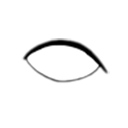
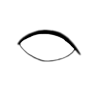
Images are loading, jsut need to make textures.

diff --git a/website/scripts/objParser.js b/website/scripts/objParser.js
@@ -1,3 +1,12 @@
+function parseObjMtl(name, done) {
+
+  var obj = parseObj(name, function () {
+    parseMtl(name, done, obj);
+  });
+
+  return obj;
+}
+
 function parseObj(name, done) {
   var objRequest = new XMLHttpRequest();
 
@@ -12,12 +21,12 @@ function parseObj(name, done) {
       var faces = [];
       var normals = [];
       var texCoords = [];
-      var currentGroup = '';
+      var currentGroup = {};
 
       for (var i = 0; i < lines.length; i++) {
-        var line = lines[i];
+        var line = lines[i].trim();
         var tokens = line.split(/\s+/);
-        
+
         if (tokens[0] == 'v') {
           for (var j = 1; j <= 3; j++) {
             verts.push(parseFloat(tokens[j]));
@@ -41,7 +50,11 @@ function parseObj(name, done) {
             });
           }
         } else if (tokens[0] == 'g') {
-          currentGroup = tokens[1];
+          currentGroup = {
+            name: tokens[1]
+          }
+        } else if (tokens[0] == 'usemtl') {
+          currentGroup.material = tokens[1];
         } else {
           continue;
         }
@@ -52,11 +65,12 @@ function parseObj(name, done) {
       obj.texCoords = [];
       obj.groups = [];
 
-      var previousGroup = '';
+      var previousGroupName = '';
       for (var i = 0; i < faces.length; i++) {
         var face = faces[i];
 
-        if (face.g !== previousGroup) {
+        console.log(face.g.name + '   ' + previousGroupName);
+        if (face.g.name !== previousGroupName) {
           if (obj.groups.length) {
             var lastGroup = obj.groups[obj.groups.length - 1];
             lastGroup.size = obj.verts.length / 3 - lastGroup.offset;
@@ -65,9 +79,11 @@ function parseObj(name, done) {
           obj.groups.push({
             offset: obj.verts.length / 3,
             size: 0,
+            name: face.g.name,
+            material: face.g.material,
           });
         }
-        previousGroup = face.g;
+        previousGroupName = face.g.name;
 
         obj.verts.push(
           verts[(face.v - 1) * 3],
@@ -92,7 +108,7 @@ function parseObj(name, done) {
         lastGroup.size = obj.verts.length / 3 - lastGroup.offset;
       }
 
-      done();
+      parseMtl(name, done, obj);
     }
   };
 
@@ -100,4 +116,63 @@ function parseObj(name, done) {
   objRequest.send();
 
   return obj;
+}
+
+function parseMtl(name, done, obj) {
+  var mtlRequest = new XMLHttpRequest();
+
+  obj.textures = {};
+
+  mtlRequest.onreadystatechange = function () {
+    if (mtlRequest.readyState == 4) {
+      var contents = mtlRequest.responseText;
+      var lines = contents.split(/\n+/);
+
+      var currentMtl = '';
+      var images = [];
+
+      for (var i = 0; i < lines.length; i++) {
+        var line = lines[i].trim();
+        var tokens = line.split(/\s+/);
+
+        if (tokens[0] == 'newmtl') {
+          currentMtl = tokens[1];
+        } else if (tokens[0] == 'map_Kd') {
+          var fileName = tokens[1];
+          var dir = name.substr(0, name.lastIndexOf('/'));
+
+          var image = new Image();
+          image.source = dir + '/' + fileName;
+          image.mtl = currentMtl;
+          images.push(image);
+        } else {
+          continue;
+        }
+      }
+
+      for (var i = 0; i < images.length; i++) {
+        images[i].onload = function() {
+          this.loaded = true;
+
+          obj.textures[this.mtl] = this;
+
+          var allLoaded = true;
+          for (var j = 0; j < images.length; j++) {
+            allLoaded = allLoaded && !!images[j].loaded;
+          }
+
+          if (allLoaded) {
+            done();
+          }
+        }
+      }
+
+      for (var i = 0; i < images.length; i++) {
+        images[i].src = images[i].source;
+      }
+    }
+  };
+
+  mtlRequest.open('GET', name + '.mtl', true);
+  mtlRequest.send();
 }

diff --git a/website/scripts/main.js b/website/scripts/main.js
@@ -594,6 +594,6 @@ function main() {
   draw();
 }
 
-var toonLink = parseObj('assets/toonlink/toonlink', function () {
+var toonLink = parseObjMtl('assets/toonlink/toonlink', function () {
   main();
 });
